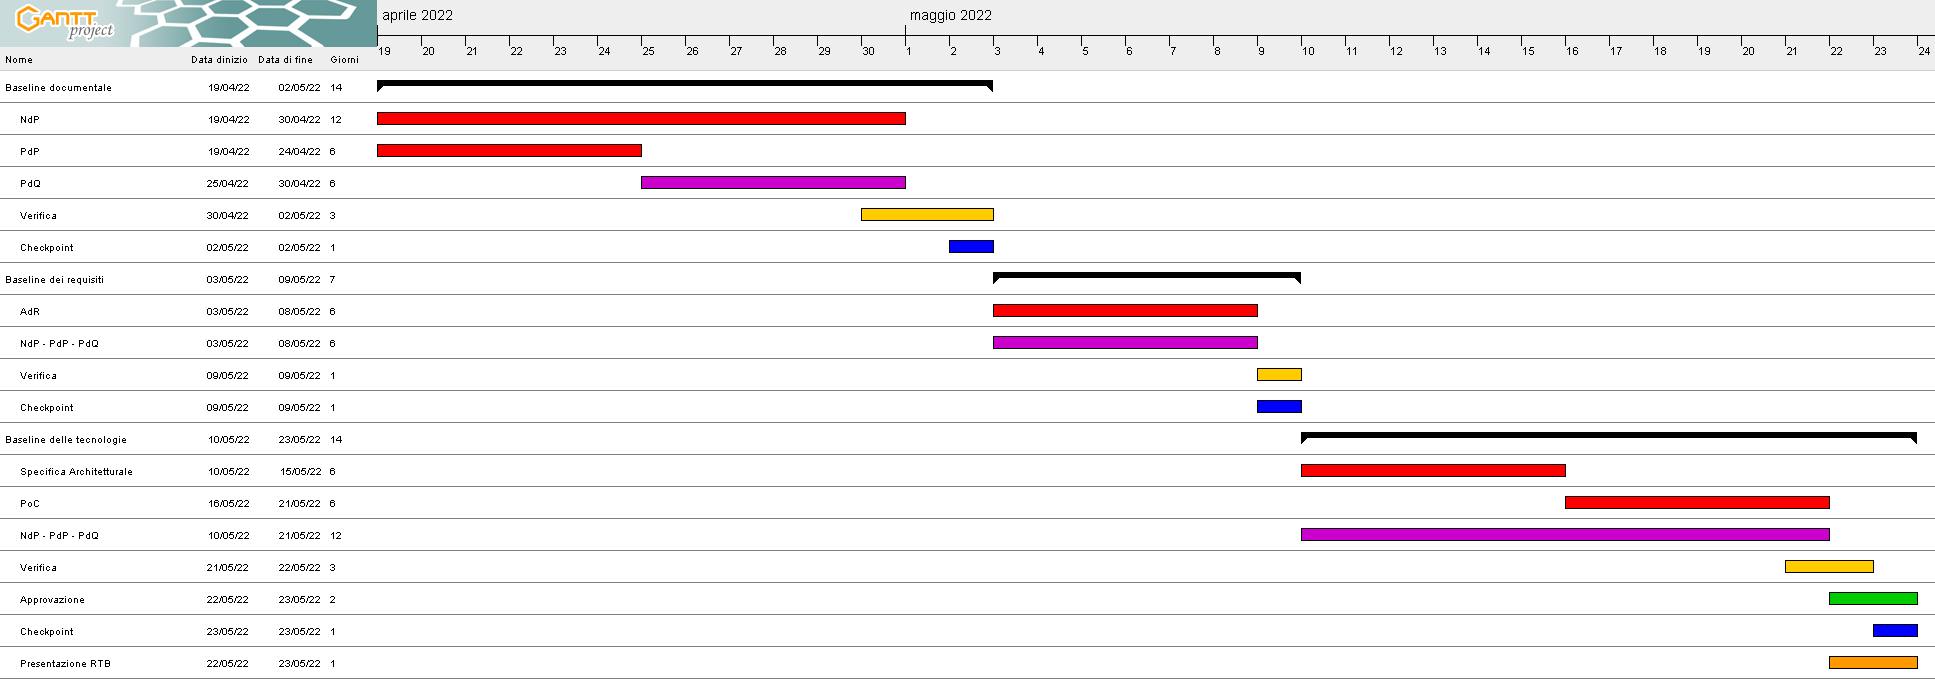
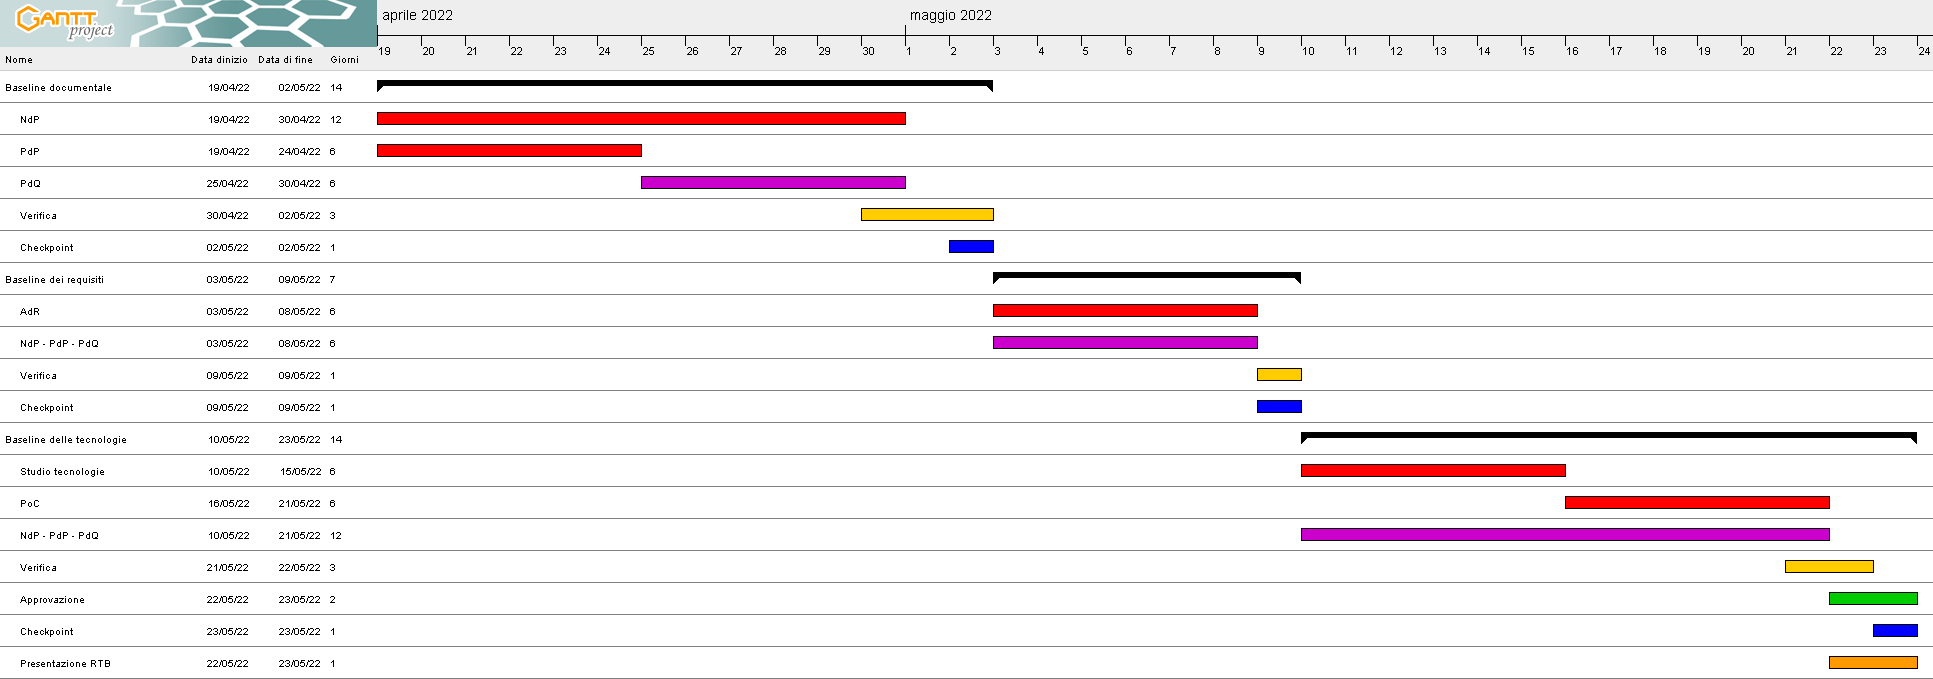
fix

diff --git a/section/pianificazioneRTB.tex b/section/pianificazioneRTB.tex
@@ -26,7 +26,7 @@ Questa macrofase è suddivisa in tre fasi:
 
 \subsubsection{Baseline delle tecnologie}
 \begin{itemize}
-    \item \textbf{Specifica Architetturale:} il progettista, analizzando lati positivi e negativi, sceglie le tecnologie per il progetto, assegnando poi lo studio autonomo al gruppo.
+    \item \textbf{Studio delle tecnologie:} il progettista, analizzando lati positivi e negativi, sceglie le tecnologie per il progetto, assegnando poi lo studio autonomo al gruppo.
     \item \textbf{Proof of Concept:} il progettista e il programmatore implementano la dimostrazione del progetto integrando le varie tecnologie e alcune funzionalità basilari.
     \item \textbf{Norme di Progetto, Piano di Progetto, Piano di Qualifica:} documenti che vengono incrementati e aggiornati;
     \item \textbf{Verifica:} il verificatore controlla che siano state rispettate le norme e verifica il materiale scritto e il prodotto realizzato durante questa fase;

diff --git a/section/pianificazionePB.tex b/section/pianificazionePB.tex
@@ -15,7 +15,7 @@ La macrofase Product Baseline è suddivisa in 4 incrementi che sono raggruppati 
                 \item Incremento 4 dal 2022-07-19 al 2022-07-25;
             \end{itemize}
 \end{itemize}
-Per la descrizione, corrispondenza tra i codici dei casi d'uso e i requisiti si faccia riferimento al documento Analisi dei Requisiti. \newline
+Per la descrizione, corrispondenza tra i codici dei casi d'uso e i requisiti si faccia riferimento al documento \emph{Analisi dei Requisiti}. \newline
 Per ogni implementazione di una funzionalità il progettista progetta, il programmatore scrive il codice implementandola e il verificatore esegue i test di controllo segnalando gli eventuali errori / bug.
 \subsubsection{Requisiti Obbligatori}
 \paragraph{Incremento 1}

diff --git a/section/02_diario_modifiche.tex b/section/02_diario_modifiche.tex
@@ -5,7 +5,7 @@
 	\hline
 	\textbf{Versione} & \textbf{Data} & \textbf{Descrizione} &  \textbf{Ruolo} &  \textbf{Autore} & \textbf{Verificatore}\\ %Aggiungere le nuove righe sopra la prima
 	\hline % Se il nome non ci sta, metterlo a mano con aggiunta di \newline (esempio: Nome \newline Cognome)
-	0.1.1 & 2022-05-22 & Scrittura \$4.3 & XXX & Irene \newline Benetazzo & Samuele \newline Rizzato\\
+	& 2022-05-22 & Scrittura \$4.3 & XXX & Irene \newline Benetazzo & \\
 	\hline 
 	0.1.0 & 2022-05-12 & Verifica Generale Documento & Verificatore & Tommaso \newline Berlaffa  & \\
     \hline

diff --git a/configuration.tex b/configuration.tex
@@ -1,5 +1,5 @@
 \newcommand{\docNome}{Piano di Progetto}                          % NOME DEL DOCUMENTO
-\newcommand{\docVersione}{0.1.1}                 % INSERIRE VERSIONE IN FORMATO x.y.z
+\newcommand{\docVersione}{0.1.0}                 % INSERIRE VERSIONE IN FORMATO x.y.z
 \newcommand{\docStatus}{in lavorazione}          % AGGIORNARE SOLO QUANDO APPROVATO
 \newcommand{\docUso}{Esterno}                           % INTERNO O ESTERNO
 \newcommand{\docDestinatari}{
